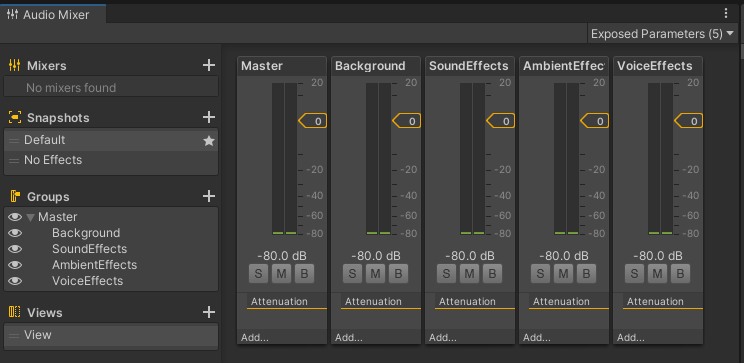
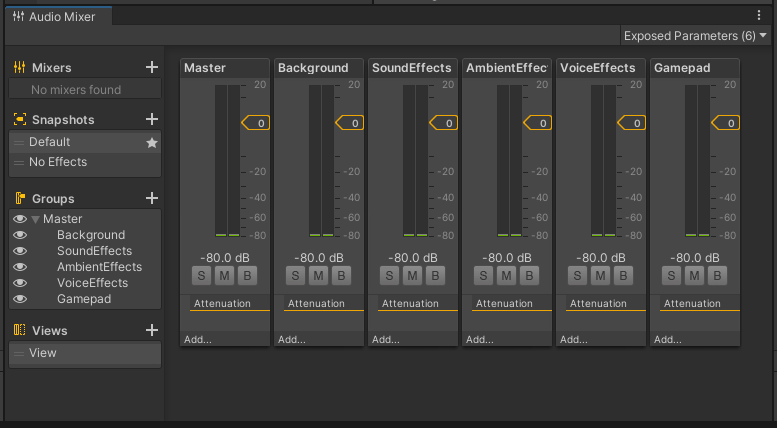
Release 4.0.0

diff --git a/README.md b/README.md
@@ -2,7 +2,7 @@
 
 * Audio scripts and presets.
 * Unity minimum version: **2018.3**
-* Current version: **3.1.0**
+* Current version: **4.0.0**
 * License: **MIT**
 
 ## How To Use
@@ -13,11 +13,11 @@ You may use the [Audio Mixer](/Mixers/DefaultAudioMixer.mixer) provided by this 
 
 ![Default Audio Mixer](/Docs~/DefaultAudioMixer.png "The Default Audio Mixer")
 
-This Mixer contains a *Main*, *Background*, *Sound Effects*, *Ambient Effects* and *Voice Effects* groups; each one with its own exposed *Volume* property.
+This Mixer contains a *Main*, *Background*, *Sound Effects*, *Ambient Effects*, *Voice Effects* and Gamepad groups; each one with its own exposed *Volume* property.
 
 ### Presets
 
-There are common Audio Clip presets presents on the [Presets](/Presets) folder. 
+There are common Audio Clip presets inside the [Presets](/Presets) folder. 
 
 Use them on Audio Clip assets depending on how frequently they should play. 
 

diff --git a/CHANGELOG.md b/CHANGELOG.md
@@ -5,6 +5,8 @@ The format is based on [Keep a Changelog](http://keepachangelog.com/en/1.0.0/)
 and this project adheres to [Semantic Versioning](http://semver.org/spec/v2.0.0.html).
 
 ## [Unreleased]
+
+## [4.0.0] - 2024-11-27
 ### Added
 - Gamepad Group Settings
 
@@ -70,7 +72,8 @@ and this project adheres to [Semantic Versioning](http://semver.org/spec/v2.0.0.
 - Add initial files
 - Initial commit
 
-[Unreleased]: https://github.com/HyagoOliveira/Audio/compare/3.1.0...main
+[Unreleased]: https://github.com/HyagoOliveira/Audio/compare/4.0.0...main
+[4.0.0]: https://github.com/HyagoOliveira/Audio/tree/4.0.0/
 [3.1.0]: https://github.com/HyagoOliveira/Audio/tree/3.1.0/
 [3.0.1]: https://github.com/HyagoOliveira/Audio/tree/3.0.1/
 [3.0.0]: https://github.com/HyagoOliveira/Audio/tree/3.0.0/
